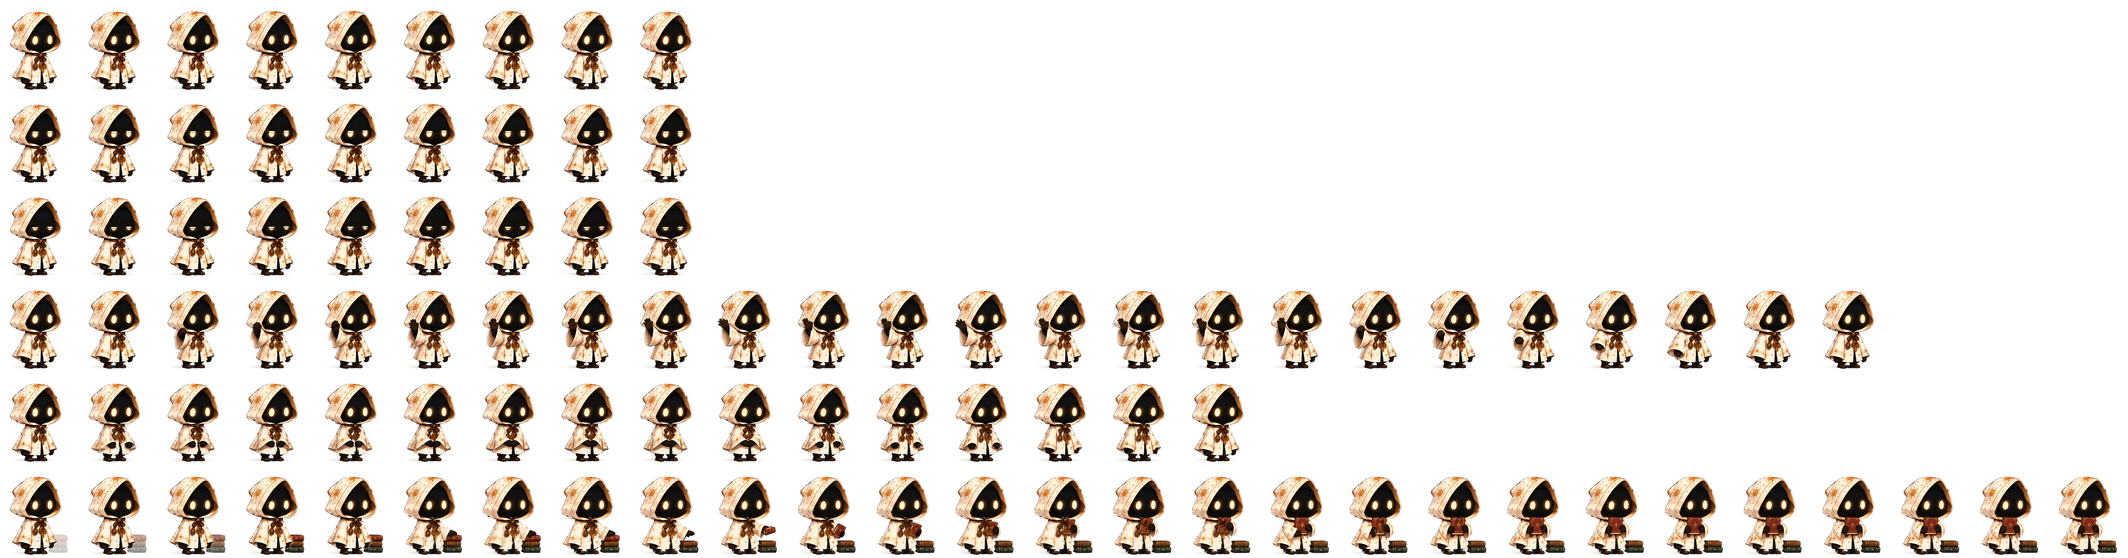
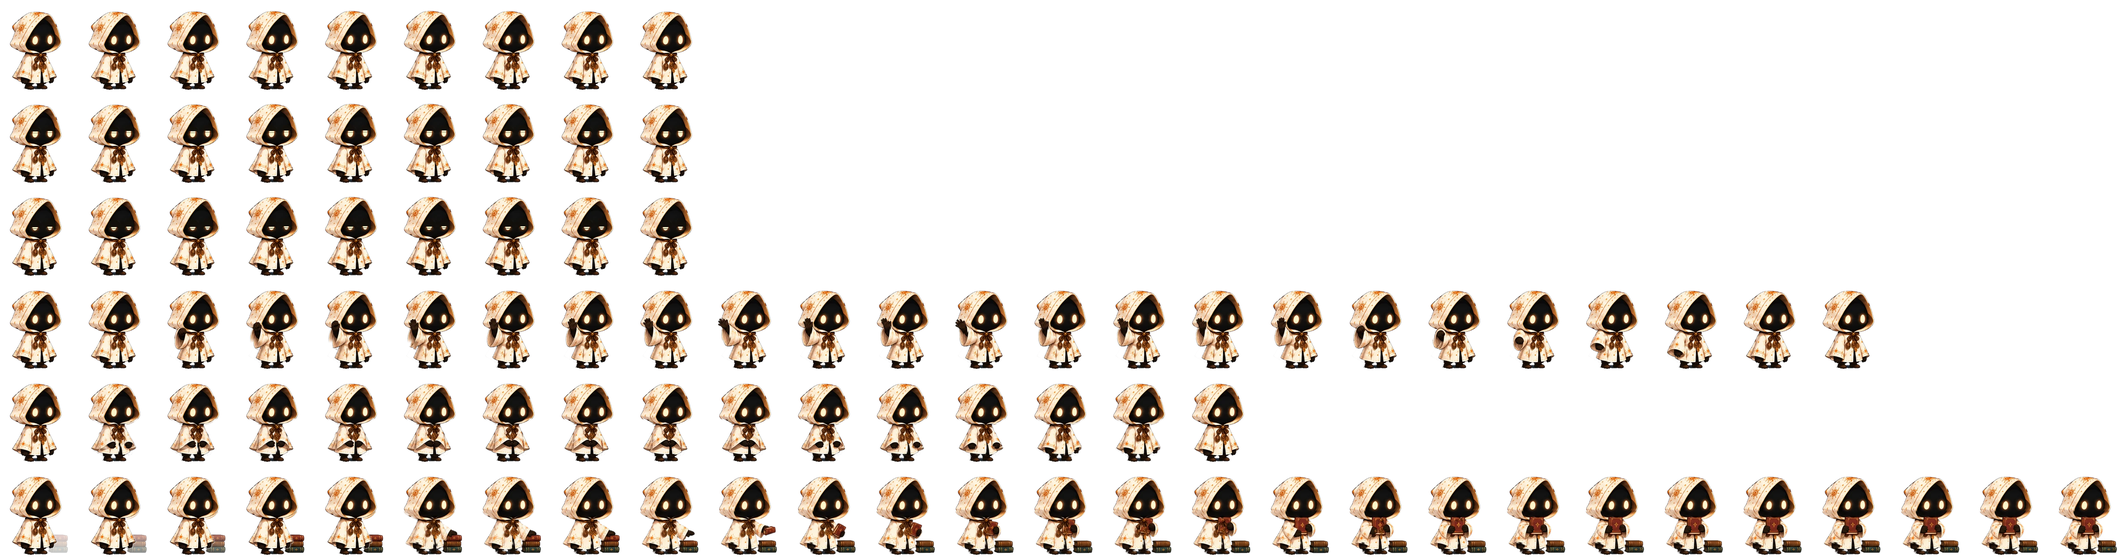
ux: Lumi's shadow and the room's light are drawn by the page
The cut baked a cream shadow into every cell, made for the paper; on a painted
floor it read as a smudge and made her look superimposed. The hands-free cut
now leaves her feet on transparency, and the companion draws:
- a contact shadow: a backdrop filter darkening the floor under a soft oval,
  so it takes the floor's colour (a blend mode can't reach the painting from
  the companion's layer);
- a cast shadow: her current frame as a mask, filled with the room's shade,
  laid on the floor away from the room's light (Today, the Library);
- the room's light multiplied over her silhouette (Today, the Library, Home).
Each room sets CSS variables; LumiSprite gains a mask mode.

Docs: design-system, features, decisions, art/README, art-direction.
npm run check passes.

diff --git a/src/app/globals.css b/src/app/globals.css
@@ -289,9 +289,95 @@ body::after {
   from { opacity: 0; }
   to { opacity: 1; }
 }
+/* Her shadow and the room's light on her (2026-09-13), drawn here rather than
+   baked into the sprite, so they take the ground she stands on — a shadow
+   painted into the sheet was cream, made for the paper, and on a painted floor
+   read as a pale smudge that made her look pasted on. The companion is its own
+   layer, so a blend mode can't reach the painting behind her; instead:
+   - the contact shadow darkens whatever is behind it (a backdrop filter under
+     a soft oval mask), so it is the floor's own colour, only darker;
+   - the cast shadow is her current frame's silhouette, filled with the room's
+     shade, laid on the floor away from the room's light (off on the paper);
+   - the light is a colour multiplied over her silhouette (off on the paper).
+   Positions are in the cell, which is mirrored: her feet are at 45% across and
+   200/208 down. Each room sets the variables (Today, the Library, Home). */
+.companion-shadow {
+  position: absolute;
+  left: 45%;
+  top: 96.2%;
+  width: 52%;
+  height: 9%;
+  z-index: 0;
+  pointer-events: none;
+  transform: translate(-50%, -50%);
+  -webkit-backdrop-filter: brightness(var(--lumi-contact, 0.8)) saturate(1.15);
+  backdrop-filter: brightness(var(--lumi-contact, 0.8)) saturate(1.15);
+  -webkit-mask-image: radial-gradient(closest-side, #000 25%, rgba(0, 0, 0, 0.55) 62%, transparent);
+  mask-image: radial-gradient(closest-side, #000 25%, rgba(0, 0, 0, 0.55) 62%, transparent);
+  transition: transform 220ms ease, opacity 220ms ease;
+}
+@supports not ((backdrop-filter: brightness(1)) or (-webkit-backdrop-filter: brightness(1))) {
+  .companion-shadow { background: rgba(60, 40, 22, 0.28); }
+}
+.companion-cast {
+  display: none;
+  position: absolute;
+  inset: 0;
+  z-index: 0;
+  pointer-events: none;
+  background-color: rgb(var(--lumi-shade, 60 40 22));
+  opacity: var(--lumi-cast-a, 0.35);
+  filter: blur(1.5px);
+  transform-origin: 45% 96.2%;
+  /* flipped below her feet and leaned; the lean is negated because the cell is mirrored */
+  transform: skewX(calc(var(--lumi-cast-lean, 40deg) * -1)) scaleY(calc(var(--lumi-cast-length, 0.45) * -1));
+  transition: transform 220ms ease;
+}
+.companion-light {
+  display: none;
+  position: absolute;
+  inset: 0;
+  z-index: 3;
+  pointer-events: none;
+  background-color: var(--lumi-light, #fff);
+  mix-blend-mode: multiply;
+  opacity: var(--lumi-light-a, 0);
+}
+/* On hover she lifts 3px; her shadows stay on the ground and shrink a little. */
+.companion-btn:hover .companion-shadow { transform: translate(-50%, calc(-50% + 3px)) scale(0.9); opacity: 0.8; }
+.companion-btn:hover .companion-cast { transform: translateY(3px) skewX(calc(var(--lumi-cast-lean, 40deg) * -1)) scaleY(calc(var(--lumi-cast-length, 0.45) * -1)); }
+/* The rooms' light. Today: low sun through the windows at the back left, long
+   shadows falling toward the front right over cream flagstones. The Library:
+   light from the windows on the left, shadows reaching right along terracotta
+   tiles. Home: lamplight; she stands in the corner, not in the room, so no cast. */
+body:has(.today-scene) {
+  --lumi-contact: 0.45;
+  --lumi-shade: 92 56 28;
+  --lumi-cast-a: 0.55;
+  --lumi-cast-lean: 42deg;
+  --lumi-cast-length: 0.5;
+  --lumi-light: rgb(255 218 170);
+  --lumi-light-a: 0.45;
+}
+body:has(.library-scene) {
+  --lumi-contact: 0.45;
+  --lumi-shade: 74 38 20;
+  --lumi-cast-a: 0.5;
+  --lumi-cast-lean: 55deg;
+  --lumi-cast-length: 0.4;
+  --lumi-light: rgb(255 206 160);
+  --lumi-light-a: 0.5;
+}
+body:has(.home-scene) {
+  --lumi-contact: 0.68;
+  --lumi-light: rgb(236 188 140);
+  --lumi-light-a: 0.4;
+}
+body:has(.today-scene, .library-scene) .companion-cast { display: block; }
+body:has(.today-scene, .library-scene, .home-scene) .companion-light { display: block; }
 @media (prefers-reduced-motion: reduce) {
   .companion-frame { animation: none; }
-  .companion-figure { transition: none; }
+  .companion-figure, .companion-shadow, .companion-cast { transition: none; }
   .companion-bubble, .companion-said { animation: none; }
 }
 /* Dev-only cue buttons, sitting just above her head; the handle at the right

diff --git a/src/components/chat/LumiSprite.tsx b/src/components/chat/LumiSprite.tsx
@@ -81,24 +81,30 @@ export function cellSize(sheet: keyof typeof SHEETS, height: number) {
   return { width: (height * s.w) / s.h, height };
 }
 
-type Props = { cell: LumiCell; height: number; className?: string; style?: CSSProperties };
+type Props = { cell: LumiCell; height: number; className?: string; style?: CSSProperties; mask?: boolean };
 
-/** One cell of a sheet. Decorative: the parent labels it. */
-export function LumiSprite({ cell, height, className = "", style }: Props) {
+/**
+ * One cell of a sheet. Decorative: the parent labels it. With `mask`, the cell
+ * is the element's mask instead of its picture — her silhouette, to fill with a
+ * colour (her cast shadow, the room's light on her).
+ */
+export function LumiSprite({ cell, height, className = "", style, mask = false }: Props) {
   const s = SHEETS[cell.sheet];
   const pct = (i: number, n: number) => (n > 1 ? (i / (n - 1)) * 100 : 0);
-  return (
-    <span
-      aria-hidden
-      className={`block ${className}`}
-      style={{
-        ...cellSize(cell.sheet, height),
-        backgroundImage: `url(${s.src})`,
-        backgroundRepeat: "no-repeat",
-        backgroundSize: `${s.cols * 100}% ${s.rows * 100}%`,
-        backgroundPosition: `${pct(cell.col, s.cols)}% ${pct(cell.row, s.rows)}%`,
-        ...style,
-      }}
-    />
-  );
+  const image = `url(${s.src})`;
+  const size = `${s.cols * 100}% ${s.rows * 100}%`;
+  const position = `${pct(cell.col, s.cols)}% ${pct(cell.row, s.rows)}%`;
+  const paint: CSSProperties = mask
+    ? {
+        maskImage: image,
+        WebkitMaskImage: image,
+        maskRepeat: "no-repeat",
+        WebkitMaskRepeat: "no-repeat",
+        maskSize: size,
+        WebkitMaskSize: size,
+        maskPosition: position,
+        WebkitMaskPosition: position,
+      }
+    : { backgroundImage: image, backgroundRepeat: "no-repeat", backgroundSize: size, backgroundPosition: position };
+  return <span aria-hidden className={`block ${className}`} style={{ ...cellSize(cell.sheet, height), ...paint, ...style }} />;
 }

diff --git a/src/components/shell/LumiCompanion.tsx b/src/components/shell/LumiCompanion.tsx
@@ -218,6 +218,11 @@ export function LumiCompanion() {
           aria-expanded={onHome ? undefined : open}
         >
           <span className="companion-figure" style={{ ...cellSize("body", HEIGHT), "--fade": `${fadeMs(pose.cur.loop, pose.prev.loop)}ms` } as CSSProperties} aria-hidden>
+            {/* Her shadow is drawn here, not in the sprite, so it takes the ground she stands on: a
+                cast shadow (her current frame's silhouette laid on the floor, away from the room's
+                light) and a contact shadow under her feet. */}
+            <LumiSprite cell={idleCell(pose.cur.loop, pose.cur.frame, "open")} height={HEIGHT} mask className="companion-cast" />
+            <span className="companion-shadow" />
             {stack.map((p, i) => (
               <LumiSprite
                 key={key(p)}
@@ -226,6 +231,8 @@ export function LumiCompanion() {
                 className={`companion-frame ${i === stack.length - 1 ? "on" : ""}`}
               />
             ))}
+            {/* The room's light on her: a colour multiplied over her silhouette (none on the paper). */}
+            <LumiSprite cell={idleCell(pose.cur.loop, pose.cur.frame, eyes)} height={HEIGHT} mask className="companion-light" />
           </span>
         </button>
       </div>

diff --git a/scripts/lumi_cut.py b/scripts/lumi_cut.py
@@ -34,11 +34,15 @@ def ruled(frac):
 
 
 class Sheet:
-    def __init__(self, path, glow=True, ground_box=GROUND_BOX):
+    def __init__(self, path, glow=True, shadow=True, ground_box=GROUND_BOX):
+        """`glow`: keep a lantern's light on the ground as a translucent warm glow. `shadow`: keep the shadow under
+        her feet, redrawn in the cream sheets' tone; off, it is cut away with the ground and the page draws her
+        shadow (the hands-free Lumi: a cream shadow read as a pale smudge on a painted floor)."""
         self.src = np.array(Image.open(path).convert('RGB')).astype(int)
         (y0, y1), (x0, x1) = ground_box
         self.paper = np.median(self.src[y0:y1, x0:x1].reshape(-1, 3), axis=0)
         self.glow = glow
+        self.shadow = shadow
         self.unrule()
         self.d_all = np.abs(self.src - self.paper).sum(axis=2)
         self.lum = self.src.mean(axis=2)
@@ -107,7 +111,7 @@ class Sheet:
         outside = ~inside
         alpha = np.where(inside, 255.0, 0.0)
         dark = np.clip((ground_l - l) - 6, 0, None) * 4.5
-        sh = outside & below & (chroma < 40) & (dark > 0)
+        sh = outside & below & (chroma < 40) & (dark > 0) & self.shadow
         alpha = np.where(sh, np.clip(dark, 0, 170), alpha)
         rgb = np.where(sh[:, :, None], SHADOW_RGB, rgb)
         if self.glow:

diff --git a/scripts/cut-lumi-free.py b/scripts/cut-lumi-free.py
@@ -75,7 +75,7 @@ def hood(main):
 
 def load(spec):
     """The spec's sheet as cells: matted, each row scaled to FIGURE_H, placed by the hood."""
-    sheet = Sheet(os.path.join(ART, spec['sheet']), glow=False)
+    sheet = Sheet(os.path.join(ART, spec['sheet']), glow=False, shadow=False)   # the page draws her shadow
     rows = sheet.rows()
     per = spec['cells'] // len(rows)
     boxes = [(r, b) for r, (y0, y1) in enumerate(rows) for b in sheet.frames(y0, y1, per)]

diff --git a/docs/design-system.md b/docs/design-system.md
@@ -136,7 +136,7 @@ A chapter opening, not a card (2026-09-12: the boxed `.card.plate` read as a wid
 ### Lumi sprites (`components/chat/LumiSprite.tsx`)
 The single source of Lumi's drawings.
 
-**The body is the hands-free Lumi** (2026-09-13, a proposal on `ux/lumi-hands-free`; `docs/art-direction.md` §4a, bet 8): `public/lumi-free.webp`, cut by `scripts/cut-lumi-free.py` (helpers in `scripts/lumi_cut.py`), a 27×6 grid of 176×208 cells (wider than 160 so a prop fits beside her; her hood's centre sits at 45% of the cell). Rows 0–2 the nine-cell **breath** with open, half-shut and shut eyes; row 3 the 24-cell **wave** (`art/lumi/lumi-free-wave.png`); row 4 **hands**, 16 cells, her empty hands meeting in front and parting (`lumi-free-idle.png`); row 5 **pickup**, three cells fading a stack of books in and 24 of her taking the top book and holding it to her chest (`lumi-free-pickup.png`), played forward, held, and backwards as the set-down (`LUMI_LOOP_CELLS`). The last three have their eyes open only. The cut is one spec per loop (`LOOPS`: sheet, cells, the region the moving part may be in, rest cells, phase holds, monotone lower cloak, ease, prop), and **every loop is held to one drawing**, the wave sheet's first cell: each cell is scaled to `FIGURE_H`, placed by the hood, aligned on what holds in that loop (the right half for the wave, the head and boots otherwise) and keeps that drawing's pixels except where its moving part differs; the two cells next to a rest cell ease from the rest drawing into the loop's own, anything dark kept out of the blend (each sheet draws the cloak a little differently, and it swapped shape at the join); a prop is kept in the rest cells and fades in over three cells. The matte also cuts out ground enclosed between the boots (it showed as a grey-blue patch), and ruled lines a generator draws between cells are painted over before segmentation. Held parts on the cut cells, measured on alpha by `scripts/preview-lumi-loop.py`: hood and boots move 0.00px through the wave and the hands, ≤ 0.5px through the pick-up (the stack beside her boots). The sheet is 899 KB (the lantern body was 461 KB); the pick-up's rows are most of it.
+**The body is the hands-free Lumi** (2026-09-13, a proposal on `ux/lumi-hands-free`; `docs/art-direction.md` §4a, bet 8): `public/lumi-free.webp`, cut by `scripts/cut-lumi-free.py` (helpers in `scripts/lumi_cut.py`), a 27×6 grid of 176×208 cells (wider than 160 so a prop fits beside her; her hood's centre sits at 45% of the cell). Rows 0–2 the nine-cell **breath** with open, half-shut and shut eyes; row 3 the 24-cell **wave** (`art/lumi/lumi-free-wave.png`); row 4 **hands**, 16 cells, her empty hands meeting in front and parting (`lumi-free-idle.png`); row 5 **pickup**, three cells fading a stack of books in and 24 of her taking the top book and holding it to her chest (`lumi-free-pickup.png`), played forward, held, and backwards as the set-down (`LUMI_LOOP_CELLS`). The last three have their eyes open only. The cut is one spec per loop (`LOOPS`: sheet, cells, the region the moving part may be in, rest cells, phase holds, monotone lower cloak, ease, prop), and **every loop is held to one drawing**, the wave sheet's first cell: each cell is scaled to `FIGURE_H`, placed by the hood, aligned on what holds in that loop (the right half for the wave, the head and boots otherwise) and keeps that drawing's pixels except where its moving part differs; the two cells next to a rest cell ease from the rest drawing into the loop's own, anything dark kept out of the blend (each sheet draws the cloak a little differently, and it swapped shape at the join); a prop is kept in the rest cells and fades in over three cells. The matte cuts her shadow away with the ground (`Sheet(shadow=False)`): the page draws it (Lumi companion → her shadow and the room's light). It also cuts out ground enclosed between the boots (it showed as a grey-blue patch), and ruled lines a generator draws between cells are painted over before segmentation. Held parts on the cut cells, measured on alpha by `scripts/preview-lumi-loop.py`: hood and boots move 0.00px through the wave and the hands, ≤ 0.5px through the pick-up (the stack beside her boots). The sheet is 899 KB (the lantern body was 461 KB); the pick-up's rows are most of it.
 
 The heads, and the lantern body kept beside the hands-free one until it is decided, are cut by `scripts/cut-lumi-idle.py`. `public/lumi-heads.png` (from `art/lumi/lumi-lantern-idle.png`, the lantern character, 2026-09-12): one row of 176px square cells, the hood 172px wide with its bottom on row 161 — neutral · blink · happy · curious · excited · sleepy, each from one of the sheet's sixteen cells (1 · 1 with the eyes shut · 6 · 11 · 12 · 7), cut under the chin where the hood's rim wraps beneath it. `public/lumi-idle.webp` (from `art/lumi/lumi-wave.png`, 2026-09-13): a 24×4 grid of 160×208 cells (wider than the earlier 144 for the lantern's light on the ground): rows 0–2 the nine-cell **breath** loop with open, half-shut and shut eyes (so blinking and the loop run together), row 3 the 24-cell **wave** with its eyes open (`LUMI_LOOP_EYES` lists each loop's eye rows; a blink mid-wave shows the open cell — blink rows for the wave took the sheet from 525 to 917 KB). **A loop is an order over its row's cells** (`LUMI_LOOP_CELLS`; `LUMI_LOOP_FRAMES` is its length) and a cell may play more than once; every loop starts and ends at the rest frame, so they hand over there. The lantern sheet's sixteen cells are sixteen drawings — a pose set with expressions, not in-betweens (head IoU 0.83–0.96 per step against the 0.975 gate) — so they give the heads, never a loop. The wave sheet is 24 in-betweens of one drawing (0.986–0.997 per step) and both loops are made from it, so breath and wave hand over without a swap: the wave's cells, each row scaled to `FIGURE_H`, placed by the hood's right edge (her free hand widens her on the left), aligned on the parts that hold — the hood's right half, the lantern side, the boots — within 6px both ways and then to a quarter pixel (`align`), and **held**: every cell keeps the first cell's pixels except where the arm and the cloak it lifts are (`hold`: the difference in blobs, not outlines, on her free side, left of the face in the head rows, feathered), so the hood, eyes, lantern and boots stay within half a pixel through the wave; and **held per phase** — the rest cells (0–1, 22–23) are the first cell exactly, the waves (8–15) keep cell 8's arm and cloak with only the hand and wrist from each cell (`hold_hand`), and the lower cloak on her free side only lifts through the rise (2–7) and only drops through the fall (16–21): a cell that moves back keeps the last good cell's lower cloak, except around either hand (`monotone_lower`); the breath is the wave's first cell stretched up to 2px at the hood top with the feet held (`breathe`: a cubic resample on premultiplied channels anchored on the feet baseline, the rise eased over nine frames — the 1–2px the slow-idle sheet drew, from one drawing, so nothing else moves); the blink rows bring a lid down over her own eyes (`eyes_shut`: the lid is the face's black, half-shut keeps the bottom half of each eye, shut a thin bright lens, and the eye's halo on the face goes with the lid so no ring is left). The matte flood-fills the ground from outside the figure (so the cream hood survives); on the grey-blue ground the 2px edge band is de-matted against the ground using the nearest interior pixel as the figure's own colour, the shadow under the feet is read by its blue cast and redrawn in the cream sheets' warm tone (`SHADOW_RGB`), and the lantern's light on the ground — a warm blend of the ground and an orange light — is lifted off as a translucent warm glow (`GLOW_RGB`, ≤ 0.55 alpha), so on the paper she lights it a little. She stands `FIGURE_H` = 173px tall in the cell, what the earlier breath rest frame stood at, so she keeps her size on the page. The earlier character's loops (the slow-idle breath and sway, the playful foot with its per-row scaling, quarter-pixel settle and per-phase head hold) are retired with her; the techniques stay in git history and `art/README.md`. `LumiSprite` draws one cell at a height via `background-position`; `headCell` / `idleCell` address them. A new state is a new cell, never a new component. Adding a sheet — the prompt, `scripts/measure-lumi-sheet.py`, `scripts/preview-lumi-loop.py` and what the cut corrects — is written up in `art/README.md`; the process in `docs/animation-pipeline.md`.
 
@@ -144,7 +144,7 @@ The heads, and the lantern body kept beside the hands-free one until it is decid
 Forest circle with the hooded head. Props: `size` (default 68) and `expression` (default `neutral`). Never larger than the text it accompanies; never decorative on its own.
 
 ### Lumi companion (`components/shell/LumiCompanion.tsx`)
-Lumi, full figure, standing a little in from the bottom-right corner of every page (`.companion`, fixed, 150px tall, ~127px wide (the hands-free cell; the lantern one was ~115, and the hood stays 57px in from the figure's right edge, so her spots in the rooms didn't move) at `right: 56px; bottom: 40px` — 28px/2px read as tucked into the corner). On Today, from 1100px, she stands in the painted room instead (Color Palette → Today: the garden). She is fixed to the viewport, outside the content column: on desktop `.chat-page` keeps a lane clear on its right (`--companion-lane`, 140px on top of `.main`'s 48px padding, added to the column's max-width) so the docked send button never sits under her at any width, whether the column fills `.main` or is centred inside it. Hidden under 768px, where there is no room for a lane, and the lane drops to 0. Idle life: the breath loop at ~320ms/frame (one breath ≈ 3s), every frame fading in **on top of** the previous so she never turns translucent (two frames mounted, keyed by loop and frame, the fade a mount animation — so a hand-over between loops fades like any other step; the fade lasts 80% of the frame time of the faster of the two loops involved, capped at 260ms, via `--fade` on the figure — a fixed 260ms on 120ms frames left each frame a third of the way in when it was replaced and snapped to full, a soft doubling of the hood; and a hand-over fades at the variation's pace both ways, since the way back at the breath's 260ms read as a slow turn of the head); every 20–45 s one pass of a variation, then back to breathing — her empty hands coming together in front of her and parting (`hands`, 16 frames at 200ms ≈ 3 s, fade 160ms; the hands-free Lumi, 2026-09-13; with more than one variation, never the same one twice running); **a wave when you arrive** (`REACTIONS`, 2026-09-13) — the page opened, or its tab shown again, after 30 min or more with no tab of the app visible in this browser (`localStorage["lumi-last-seen"]`, refreshed each minute while a tab is visible and when it hides; `ARRIVAL_GAP_MS` matches `SITTING_GAP_MS`), or a first visit in the browser: 900ms later it is queued, plays once from the next rest frame at 120ms a frame (24 frames ≈ 3 s, fade 96ms) and hands back to breathing without scheduling a variation; a blink every 2.5–6.5 s (half · shut · half, ~0.3s, occasionally doubled) by switching the eye row. Every loop is one drawing, handed over at the rest cell — the micro variations from `lumi-idle.png` were separate drawings, read as image swaps and were dropped. All of it stops under `prefers-reduced-motion`. She is also the one control in the corner: `.companion-btn` wraps the figure (hover lifts her 3px; the global brass focus ring), and `.companion-bubble` is the speech bubble that opens above her — a 330px `--card` plate with a `--rule-strong` hairline, a 12px rotated-square tail over her head, a display-serif textarea (21px, grows to 120px) with a 40px `.send`, and above it the exchange (`.companion-said`: your line as a right-aligned `--paper-deep` bubble like the chat's `.msg-user`, 15px, sliding up 8px over 220ms on each send; `.companion-reply` at 17px with the chat `.ledger` beneath) under a hairline. Fades in over 160ms (off under reduced-motion). Stacks in the `.companion` flex column so she stays put when it opens. Testing note: Chrome freezes animations in a hidden tab (the Claude-in-Chrome automation window is usually occluded), and a capture of a frozen tab shows her mid-fade, ghostly — that is the capture, not the page. Dev only (`NODE_ENV === "development"`): `.companion-debug`, a row of tiny `.companion-debug-btn` chips fixed just above her head with a `.companion-debug-fold` handle at the right end that folds them away toward it (`.is-folded`, remembered in `localStorage`), cues a variation, a reaction or an action (played at the next rest frame, the same hand-over as a scheduled one — `hands`, `wave` and `pickup` today; the pick-up is an `ACTIONS` loop, played only from here because nothing in the app asks her to pick something up yet: 62 frames at 140ms ≈ 9 s, the stack fading in, the book lifted, held, set down, the stack fading out) or a blink (now) via a `lumi:cue` window event — for checking the loops without waiting; hidden with her under 768px, and while the bubble is open (it sits where the bubble opens).
+Lumi, full figure, standing a little in from the bottom-right corner of every page (`.companion`, fixed, 150px tall, ~127px wide (the hands-free cell; the lantern one was ~115, and the hood stays 57px in from the figure's right edge, so her spots in the rooms didn't move) at `right: 56px; bottom: 40px` — 28px/2px read as tucked into the corner). On Today, from 1100px, she stands in the painted room instead (Color Palette → Today: the garden). She is fixed to the viewport, outside the content column: on desktop `.chat-page` keeps a lane clear on its right (`--companion-lane`, 140px on top of `.main`'s 48px padding, added to the column's max-width) so the docked send button never sits under her at any width, whether the column fills `.main` or is centred inside it. Hidden under 768px, where there is no room for a lane, and the lane drops to 0. Idle life: the breath loop at ~320ms/frame (one breath ≈ 3s), every frame fading in **on top of** the previous so she never turns translucent (two frames mounted, keyed by loop and frame, the fade a mount animation — so a hand-over between loops fades like any other step; the fade lasts 80% of the frame time of the faster of the two loops involved, capped at 260ms, via `--fade` on the figure — a fixed 260ms on 120ms frames left each frame a third of the way in when it was replaced and snapped to full, a soft doubling of the hood; and a hand-over fades at the variation's pace both ways, since the way back at the breath's 260ms read as a slow turn of the head); every 20–45 s one pass of a variation, then back to breathing — her empty hands coming together in front of her and parting (`hands`, 16 frames at 200ms ≈ 3 s, fade 160ms; the hands-free Lumi, 2026-09-13; with more than one variation, never the same one twice running); **a wave when you arrive** (`REACTIONS`, 2026-09-13) — the page opened, or its tab shown again, after 30 min or more with no tab of the app visible in this browser (`localStorage["lumi-last-seen"]`, refreshed each minute while a tab is visible and when it hides; `ARRIVAL_GAP_MS` matches `SITTING_GAP_MS`), or a first visit in the browser: 900ms later it is queued, plays once from the next rest frame at 120ms a frame (24 frames ≈ 3 s, fade 96ms) and hands back to breathing without scheduling a variation; a blink every 2.5–6.5 s (half · shut · half, ~0.3s, occasionally doubled) by switching the eye row. Every loop is one drawing, handed over at the rest cell — the micro variations from `lumi-idle.png` were separate drawings, read as image swaps and were dropped. All of it stops under `prefers-reduced-motion`. **Her shadow and the room's light on her** (2026-09-13, hands-free branch) are drawn by the page, not baked into the sprite — the cream shadow the cut used to paint read as a pale smudge on a painted floor and made her look pasted on. Inside `.companion-figure`: `.companion-shadow`, a soft oval under her feet (45% across the mirrored cell, 96.2% down) that darkens whatever is behind it with a backdrop filter (`--lumi-contact`, brightness) under a radial mask, so it is the floor's own colour — a blend mode can't reach the painting, since the companion is its own layer; `.companion-cast`, her current frame as a mask (`LumiSprite mask`) filled with the room's shade (`--lumi-shade`), flipped under her feet, squashed to `--lumi-cast-length` and leaned by `--lumi-cast-lean` away from the room's light, blurred 1.5px at `--lumi-cast-a`; and `.companion-light`, her silhouette filled with the room's light (`--lumi-light`) multiplied over her at `--lumi-light-a`. On hover she lifts 3px and both shadows stay on the ground and shrink a little. On the paper only the contact shadow shows; Today and the Library set a cast and a light (low sun from the back left, long shadows to the front right; light from the left windows, shadows reaching right); Home sets a lamplit tint and no cast, since she stands in the corner there, not in the room. She is also the one control in the corner: `.companion-btn` wraps the figure (hover lifts her 3px; the global brass focus ring), and `.companion-bubble` is the speech bubble that opens above her — a 330px `--card` plate with a `--rule-strong` hairline, a 12px rotated-square tail over her head, a display-serif textarea (21px, grows to 120px) with a 40px `.send`, and above it the exchange (`.companion-said`: your line as a right-aligned `--paper-deep` bubble like the chat's `.msg-user`, 15px, sliding up 8px over 220ms on each send; `.companion-reply` at 17px with the chat `.ledger` beneath) under a hairline. Fades in over 160ms (off under reduced-motion). Stacks in the `.companion` flex column so she stays put when it opens. Testing note: Chrome freezes animations in a hidden tab (the Claude-in-Chrome automation window is usually occluded), and a capture of a frozen tab shows her mid-fade, ghostly — that is the capture, not the page. Dev only (`NODE_ENV === "development"`): `.companion-debug`, a row of tiny `.companion-debug-btn` chips fixed just above her head with a `.companion-debug-fold` handle at the right end that folds them away toward it (`.is-folded`, remembered in `localStorage`), cues a variation, a reaction or an action (played at the next rest frame, the same hand-over as a scheduled one — `hands`, `wave` and `pickup` today; the pick-up is an `ACTIONS` loop, played only from here because nothing in the app asks her to pick something up yet: 62 frames at 140ms ≈ 9 s, the stack fading in, the book lifted, held, set down, the stack fading out) or a blink (now) via a `lumi:cue` window event — for checking the loops without waiting; hidden with her under 768px, and while the bubble is open (it sits where the bubble opens).
 
 ### Lead card (`components/insights/LeadsSection.tsx`)
 Insights opens the way Today does — the running head (kicker + divider), then Lumi's 48px portrait medallion beside a display-serif line (30/36px) — and then a column of `.card`s (gap 20px), one per thing she noticed: the title in display serif (26/28px), her *why* line in body 17px `--ink-soft`, a `.label.label-mute` meta line (sender · subject · when · date), and the two answers — a `.chip` (*Still needs doing*) and a `.tool-link` (*Let it go*), the same weights as *Not this*'s chips and *Keep it*. Answered, the row's controls become one ledger-style line (`.ledger-mark` ✦ + *On your list.* / *Let go.*). The page's one flourish is the divider under the kicker; the tailpiece appears only when there is nothing. No counts, no badges, no unread dot on the nav item.

diff --git a/docs/art-direction.md b/docs/art-direction.md
@@ -117,6 +117,7 @@ Newest first: what landed, what it showed, and what it changed in the plan.
 
 | Date | Step | What happened | What it changed |
 |---|---|---|---|
+| 2026-09-13 | Shadows and light, drawn by the page | Chanté looked at the review server ("looks okay"), is open to puppeting, and named the shadow as what made her look superimposed. The cut no longer bakes a shadow in; the companion draws a contact shadow that darkens the floor, a cast shadow from her silhouette per room, and the room's light as a tint | Walking (§6) needs this anyway, and a puppet can cast its pieces' shadows the same way; next, a light computed from her position instead of one per room |
 | 2026-09-13 | 5 · wired, for review | The three loops cut by a new spec-driven script and served as the companion on `ux/lumi-hands-free`: hands as an idle variation, the wave on arrival, the pick-up from the dev cue strip. Hood and boots hold within 0.25px on the cut cells. Every loop is held to one rest drawing; the cloak is eased where a loop leaves it, because each sheet draws it a little differently | Loops from several sheets need one rest drawing and eased joins; that is the cost of paths as separate sheets, and a reason pieces may carry more than planned |
 | 2026-09-13 | 3 · the pieces test | Built by a subagent and published as a page: one drawing, a head moved on a mesh that bends down to the bow, eyes drawn in code with blink, sleepy, happy, curious, glances and a tilt, beside today's sprite. Checked in renders, not yet in a browser: no seam at the bow, no ring where the painted eyes were; blink, sleepy and happy read at 36px, glances barely | Awaiting Chanté's verdict (bets 1 and 2). Weak spots it names: the hood tilts stiffly, the eyes slide without foreshortening, the lids are straight |
 | 2026-09-13 | 1 · the hub · 2 · the model sheet · 4 · first paths, generated | The hub passed on its first run (four near-identical candidates) → `lumi/lumi-free-rest.png`. The model sheet passed on its first run: nine views, the costume the same in all → `lumi/lumi-model-sheet.png`. The hands-together idle and the hands-free wave passed every gate on their first run (head IoU ≥ 0.988 every step) → `lumi/lumi-free-idle.png`, `lumi/lumi-free-wave.png`. The pick-up drew the movement well but left three books on the stack after lifting one → v2. Not yet approved by Chanté or cut | Sheets drawn from a drawn hub hold the drawing at least as well as the wave did from the lantern sheet. The generator ruled lines between the cells on five of eight grid candidates, so the measure script paints them over |
@@ -154,7 +155,7 @@ Motion is part of Lumi's voice, so it follows the voice guide in `product.md`: c
 **Resident, the room's invitation.** Standing on the floor of Home's painted room, moving between the desk, the armchair and the rug. That needs things the companion does not:
 
 - **Projection: isometric, decided 2026-09-12.** Every room is an isometric cutaway seen from above, like the served Home room. Lumi's sheets are drawn near eye level, so a resident needs drawings at the rooms' angle, and walking in an isometric room needs four diagonal facings, not the reference sheet's left and right. Still open: whether the corner companion moves to the same angle, since on Home she already stands over an isometric room.
-- **Scale and light.** A size relative to the furniture; a contact shadow that works on dark wood (the cut's baked cream shadow reads as a pale smudge on a ground as dark as the room's); a lantern glow that lights the room, not the paper.
+- **Scale and light.** A size relative to the furniture; a contact shadow that works on dark wood (the cut's baked cream shadow reads as a pale smudge on a ground as dark as the room's); a lantern glow that lights the room, not the paper. *Since 2026-09-13 (hands-free branch) her shadow is drawn by the page: a contact shadow that darkens the floor itself, a cast shadow from her silhouette away from each room's light, and the room's light tinting her. Still to come for walking: a light that moves with her position (a lamp she passes), and shadows that follow a puppet's pieces.*
 - **Depth and paths.** Lumi passes behind the table and in front of the chair, so the walkable floor has to be marked on the painting.
 - **Attention.** The room is dimmed behind the conversation; whatever Lumi does there must not pull the eye from it.
 
@@ -206,6 +207,7 @@ The evolving part. A bet moves to *Settled*, with a `decisions.md` entry, or to 
 
 ## Change log
 
+- 2026-09-13 — v0.2, no bet moved: §6 *Scale and light* notes her shadow and light are drawn by the page now; a §4a progress row for it, with Chanté's first look (looks okay; open to puppeting).
 - 2026-09-13 — v0.2, no bet moved: §1 rows for the hub, the model sheet, the three hands-free sheets and the pieces page; §4a progress (wired for review; the pieces test built); evidence on bets 1, 2 and 7.
 - 2026-09-13 — v0.2, no bet moved: §4a, the motion plan (poses and paths, pieces, hands-free by default, the order of work and a progress table kept current); bets 7 (poses and paths) and 8 (hands-free, the lantern a prop); §2 notes hands-free; §9 question 2 is being tried.
 - 2026-09-13 — v0.2, no bet moved: `docs/product/today-garden.md` joins the canon. Bet 3 notes that its §33 and §66 rule out completion-driven growth in the Garden too; bet 4 notes what it wants of Lumi in the Garden (§38–40) and on a phone (§148). §3's rule 1 isn't rewritten until Chanté settles open question 14.

diff --git a/docs/features.md b/docs/features.md
@@ -18,7 +18,7 @@ Coherence   Home · Today · Library · Insights · Settings
 - The browser tab is a running head too: *Today · Coherence*, *Library · Coherence*, *Insights · Coherence*, *Settings · Coherence*; Home is just *Coherence* (`layout.tsx` title template, each page's `metadata.title`).
 - Decided 2026-09-12: V1 nav is **Chat · Today · Lists · Settings**; Chat stays the homepage (`today.md` → Decisions). Library and Insights leave the nav when Lists lands (M3). **Insights returns the same day** with a real job — what Lumi noticed in the mail — so the nav is **Chat · Today · Lists · Insights · Settings**. **Renamed 2026-09-12:** the first item is **Home** — it is where you land and where Lumi is; *Chat* named the mechanism, not the place. Same route (`/`), same page; the nav reads **Home · Today · Lists · Insights · Settings**. **Renamed 2026-09-13 (Chanté's ask, with its painting):** *Lists* is the **Library** — route `/library`, and `/lists` redirects there permanently (`next.config.ts`); the nav reads **Home · Today · Library · Insights · Settings**. The lists inside it keep their names.
 
-**Lumi in the corner** (`components/shell/LumiCompanion.tsx`): full figure standing on the bottom-right edge of every page (on Today and in the Library, on a wide window, standing in the painting instead) — breathing and blinking, holding nothing — small movements. Since 2026-09-13 (a proposal on `ux/lumi-hands-free`) she is hands-free: the lantern is something she can pick up, not something she carries. Now and then her hands come together in front of her and part again. **She waves when you arrive** (2026-09-13): open the app, or come back to its tab, after half an hour or more away — or for the first time in a browser — and a moment later she raises a hand, waves twice and goes back to breathing. Once per arrival; moving between pages doesn't count. Still under reduced-motion. **Tap her and a speech bubble opens** (`CompanionBubble.tsx`): one text box (*Tell Lumi…*), Enter sends, so you can say "add take out compost" from Today or the Library without leaving the page. The message goes through `/api/chat` like any other, so it lands in the main conversation; what you said slides in as a bubble of its own, Lumi blinks, and the box reads *Lumi's on it…* until her reply and the ledger of what she did show beneath; the page underneath refreshes once the turn has landed. Escape, a click elsewhere or a tap on her closes it; nothing is kept. On Home, tapping her just focuses the composer. Hidden with her under 768px. In development only, a strip of small buttons above her (her hands, the wave, picking up a book and setting it down, and a blink) cues each on demand so it can be checked without waiting for the schedule, and folds away behind a small handle when not wanted; it never ships.
+**Lumi in the corner** (`components/shell/LumiCompanion.tsx`): full figure standing on the bottom-right edge of every page (on Today and in the Library, on a wide window, standing in the painting instead) — breathing and blinking, holding nothing — small movements. Since 2026-09-13 (a proposal on `ux/lumi-hands-free`) she is hands-free: the lantern is something she can pick up, not something she carries. Now and then her hands come together in front of her and part again. Her shadow is drawn to suit where she stands: a soft shadow under her feet everywhere, and in the Today and Library paintings a longer one cast away from the room's light, with the room's warm light on her. **She waves when you arrive** (2026-09-13): open the app, or come back to its tab, after half an hour or more away — or for the first time in a browser — and a moment later she raises a hand, waves twice and goes back to breathing. Once per arrival; moving between pages doesn't count. Still under reduced-motion. **Tap her and a speech bubble opens** (`CompanionBubble.tsx`): one text box (*Tell Lumi…*), Enter sends, so you can say "add take out compost" from Today or the Library without leaving the page. The message goes through `/api/chat` like any other, so it lands in the main conversation; what you said slides in as a bubble of its own, Lumi blinks, and the box reads *Lumi's on it…* until her reply and the ledger of what she did show beneath; the page underneath refreshes once the turn has landed. Escape, a click elsewhere or a tap on her closes it; nothing is kept. On Home, tapping her just focuses the composer. Hidden with her under 768px. In development only, a strip of small buttons above her (her hands, the wave, picking up a book and setting it down, and a blink) cues each on demand so it can be checked without waiting for the schedule, and folds away behind a small handle when not wanted; it never ships.
 
 ---
 

diff --git a/docs/decisions.md b/docs/decisions.md
@@ -4,6 +4,7 @@ Append-only. One entry per decision that changes `architecture.md`, `domain.md` 
 
 **Product decisions** (what the product is and why, and the constraints they put on future work) live in [`living/decisions.md`](living/decisions.md), the canon's log. An entry here that changes how the product behaves gets a short entry there too.
 
+- **2026-09-13 · Lumi's shadow is drawn by the page, per room (hands-free branch).** Chanté: her shadow makes her look superimposed, and she will walk around rooms. The cut had baked a cream shadow into every cell, made for the paper; on a painted floor it read as a pale smudge. Now the hands-free cut leaves her feet on transparency (`lumi_cut.Sheet(shadow=False)`) and the companion draws a contact shadow (a backdrop filter darkening the floor under a soft oval, so it takes the floor's colour), a cast shadow (her current frame's silhouette laid on the floor away from the room's light) and the room's light as a tint over her, each room setting its values in CSS variables. Chosen over drawing shadows in the sheets (they would be wrong in every room but one, and wrong again when she walks) and over a blend mode (the companion is its own layer, so `mix-blend-mode` can't reach the painting). A cast direction per room is a fixed light for now; a Lumi who walks past a lamp would need it computed from her position. Nothing for the user to keep; no migration.
 - **2026-09-13 · Lumi is hands-free, and her movements are poses joined by paths (proposal, `ux/lumi-hands-free`).** Chanté's direction: Lumi mostly holds nothing and picks things up in her environment; "document your thoughts and keep them updated". The plan is `art-direction.md` §4a (Claude's, kept current): a **hub** drawing (her rest pose without the lantern, `art/lumi/lumi-free-rest.png`) every sheet is generated from; **paths**, short in-betweened sheets from the hub to a pose, which `LUMI_LOOP_CELLS` can play backwards (the pick-up is also the set-down); **pieces** for small, frequent life, under test as a separate prototype. Built: a hands-free model sheet; the wave, a hands-together idle variation and a book pick-up, each passing the gates on its first or second run; a spec-driven cut (`scripts/cut-lumi-free.py`, one entry per loop) that holds every loop to one rest drawing and eases the cloak where a loop leaves it; `public/lumi-free.webp` served as the companion's body (176px cells, was 160). The pick-up plays only from the dev cue strip (`ACTIONS`): nothing in the app gives her a reason to pick something up yet. Chosen over redrawing the lantern loops one by one: a hub keeps every sheet one drawing, and a path played both ways halves the sheets. The lantern body (`public/lumi-idle.webp`) and its cut stay until Chanté decides; the avatar heads are still the lantern sheet's (the lantern doesn't show in them). `PROJECT-CANON.md` → Lumi still says she carries a lantern — raised with Chanté, not changed. Nothing for the user to keep; no migration.
 
 - **2026-09-13 · The Library's painting is `scenery/library/background.png` again; its repaints are archived.** Chanté's ask: the painting in use (`background-smaller2.png`) is renamed `background.png`, the one-name-per-place convention of `art/scenery/`, and the repaints before it move to `art/archived/scene_mockups/` (`library-background-long-table.png`, `library-background-small.png`). Nothing changes on the page (`public/library-room.webp` is the same image). The spatial-map manifest keeps drawing over the archived long-table painting it was measured on until it is redrawn. No migration; nothing for the user to keep.

diff --git a/art/README.md b/art/README.md
@@ -49,7 +49,7 @@ Rules for what a sheet may become: `docs/design-system.md` → Lumi sprites. The
 | A phase not drawn, a stray rest frame mid-row | play what exists, forward then in reverse; skip the stray — the order lives in `LumiSprite` → `LUMI_LOOP_CELLS` |
 | The hood rim and its sun redrawn a little every frame (IoU ~0.98) | hold one frame's head across the phase (the foot cut's `hold_head`, in git history) |
 | Frames a pixel off each other | settle on the head silhouette to a quarter pixel (the foot cut's `settle`, in git history) |
-| A cold shadow and a grey rim from the contrasting ground | shadow found by its blue cast and redrawn warm; edges de-matted against the ground |
+| A cold shadow and a grey rim from the contrasting ground | shadow found by its blue cast and redrawn warm; edges de-matted against the ground. For the hands-free Lumi the shadow is cut away instead (`Sheet(shadow=False)`) and the page draws it — a baked cream shadow looked pasted on over a painted floor (`docs/design-system.md` → Lumi companion) |
 | The lantern's light pooling on the ground | found by its warm cast, lifted off as a translucent warm glow (`GLOW_RGB`, `GLOW_MAX`) |
 | No blink row | lids drawn down over her own eyes (`eyes_shut`: half-shut keeps the bottom half, shut a thin lens; the eye's halo on the face goes with the lid) |
 | No in-betweens at all | the rest cell alone, stretched ≤ 2px at the hood top with the feet held, nine frames (`breathe`) |
